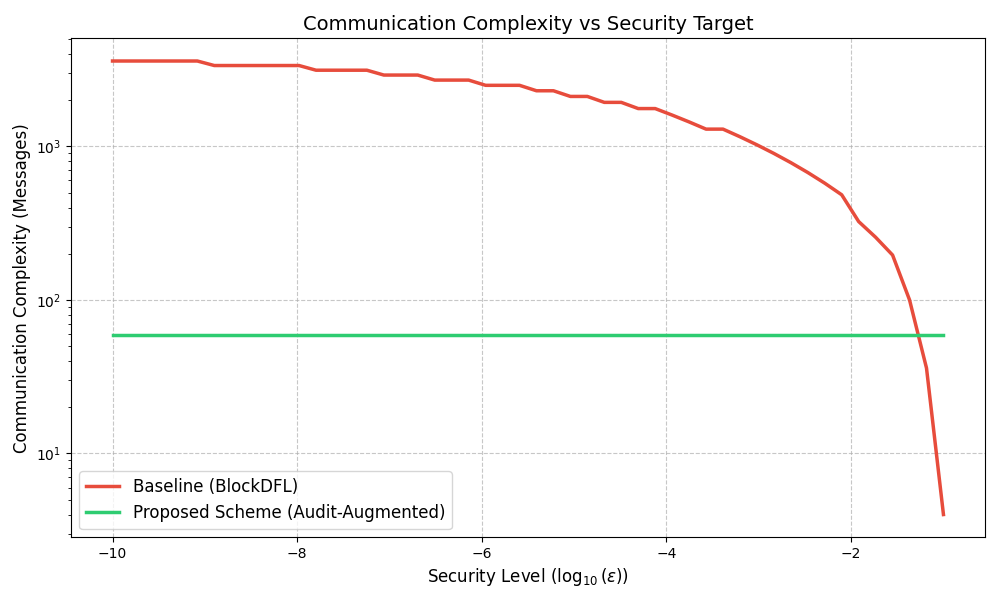
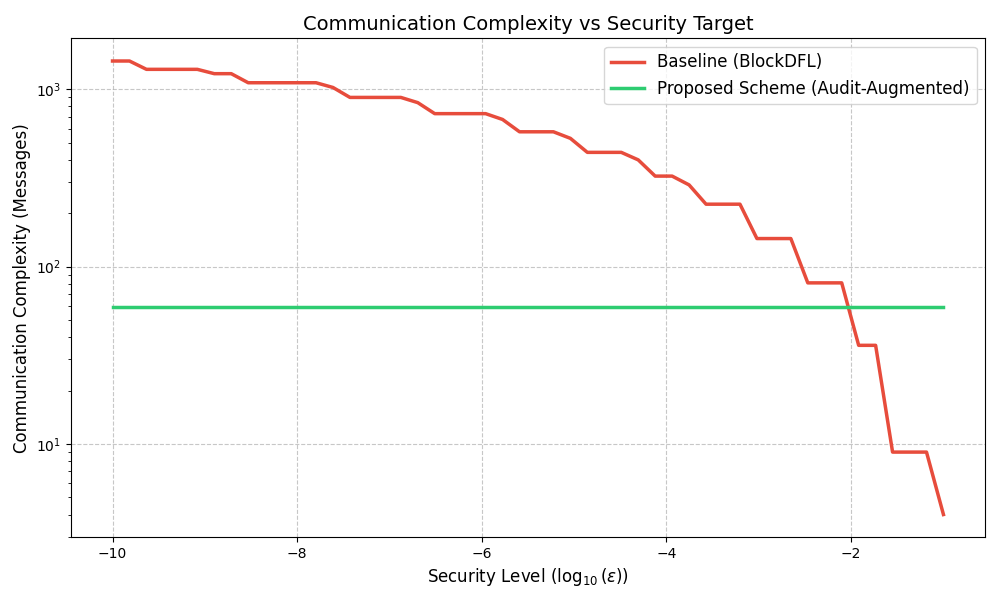
v2

diff --git a/analysis/table_gen.py b/analysis/table_gen.py
@@ -5,8 +5,8 @@ def calculate_min_committee(N, f, target_prob):
     M = int(N * f)  # Number of malicious nodes
     # Iterate C from 1 to N to find the minimum C that satisfies the safety condition
     for C in range(1, N + 1):
-        # The threshold for attack success is majority (> C/2)
-        threshold = math.floor(C / 2)
+        # The threshold for attack success is > 2/3 (BFT assumption)
+        threshold = math.floor(C * 2 / 3)
         
         # Calculate P(X > threshold) using Hypergeometric Survival Function (sf)
         # stats.hypergeom.sf(k, M, n, N) 

diff --git a/analysis/viz_gen.py b/analysis/viz_gen.py
@@ -6,7 +6,7 @@ import math
 def calculate_min_committee(N, f, target_prob):
     M = int(N * f)
     for C in range(1, N + 1):
-        threshold = math.floor(C / 2)
+        threshold = math.floor(C * 2 / 3)
         prob_failure = stats.hypergeom.sf(threshold, N, M, C)
         if prob_failure < target_prob:
             return C

diff --git a/section_6_4.md b/section_6_4.md
@@ -7,7 +7,7 @@
 假設系統中有 $N$ 個驗證節點，其中惡意節點佔比為 $f$。
 
 ### A. 基準方案 (Baseline: BlockDFL)
-傳統方案依賴委員會內部的 BFT 共識來確保安全性。為了防止惡意節點控制委員會（即佔據超過 $1/3$ 或 $1/2$ 席位），必須擴大委員會規模 $C_{base}$。其單輪通訊複雜度為委員會內部廣播的開銷：
+傳統方案依賴委員會內部的 BFT 共識來確保安全性。為了防止惡意節點控制委員會（即佔據超過 $2/3$ 席位以偽造共識），必須擴大委員會規模 $C_{base}$。其單輪通訊複雜度為委員會內部廣播的開銷：
 $$Cost_{base} = O(C_{base}^2)$$
 其中 $C_{base}$ 是關於安全閾值 $\epsilon$ 和惡意佔比 $f$ 的函數：$C_{base} = \text{func}(\epsilon, f)$。
 
@@ -19,9 +19,9 @@ $$\approx O(C_{small}^2) + p \cdot O(N^2)$$
 
 ## 6.4.2 安全性與委員會規模的定量關係 (Quantitative Analysis of Security vs. Committee Size)
 
-為了進行公平比較，我們必須計算基準方案在不同安全需求下所需的最小委員會規模。假設委員會選舉服從超幾何分佈 $H(N, M, C)$，其中 $M = \lfloor f \cdot N \rfloor$ 為惡意節點總數。系統失效（被攻陷）的定義為惡意節點在委員會中佔據多數（即 $k > C/2$）。失效機率 $P_{fail}$ 為：
+為了進行公平比較，我們必須計算基準方案在不同安全需求下所需的最小委員會規模。假設委員會選舉服從超幾何分佈 $H(N, M, C)$，其中 $M = \lfloor f \cdot N \rfloor$ 為惡意節點總數。系統失效（被攻陷）的定義為惡意節點在委員會中佔據 BFT 共識所需的絕對多數（即 $k > 2C/3$）。失效機率 $P_{fail}$ 為：
 
-$$P_{fail}(C) = \sum_{k=\lfloor C/2 \rfloor + 1}^{C} \frac{\binom{M}{k}\binom{N-M}{C-k}}{\binom{N}{C}}$$
+$$P_{fail}(C) = \sum_{k=\lfloor 2C/3 \rfloor + 1}^{C} \frac{\binom{M}{k}\binom{N-M}{C-k}}{\binom{N}{C}}$$
 
 我們設定 $N=100, f=0.3$，計算基準方案為了達到不同安全等級（即 $P_{fail} < \epsilon$）所需的最小 $C_{base}$。
 
@@ -30,17 +30,17 @@ Table 6.2: Communication Complexity Comparison under Iso-assurance Conditions
 
 | 安全目標 (Security Target, $\epsilon$) | 允許的失效機率 (Max Failure Prob.) | BlockDFL 所需委員會 ($C_{base}$) | 本方案委員會 ($C_{ours}$) | 效率提升倍率 (Speedup Factor) |
 | :--- | :--- | :--- | :--- | :--- |
-| **低安全性 (Low)** | $10^{-2}$ (1%) | 20 | 7 | **8.2x** |
-| **中安全性 (Medium)** | $10^{-4}$ (0.01%) | 40 | 7 | **32.7x** |
-| **高安全性 (High)** | $10^{-6}$ (0.0001%) | 52 | 7 | **55.2x** |
-| **金融級安全 (Critical)** | $10^{-9}$ (1ppb) | 58 | 7 | **68.7x** |
+| **低安全性 (Low)** | $10^{-2}$ (1%) | 6 | 7 | **0.7x** |
+| **中安全性 (Medium)** | $10^{-4}$ (0.01%) | 18 | 7 | **6.6x** |
+| **高安全性 (High)** | $10^{-6}$ (0.0001%) | 27 | 7 | **14.9x** |
+| **金融級安全 (Critical)** | $10^{-9}$ (1ppb) | 36 | 7 | **26.4x** |
 
-> *註：BlockDFL 的複雜度以 $C^2$ 計算；本方案以 $C^2$ 計算（假設 $p \to 0$）。數據基於 $N=100, f=0.3$ 的超幾何分佈計算得出。*
+> *註：BlockDFL 的複雜度以 $C^2$ 計算；本方案以 $C^2$ 計算（假設 $p \to 0$）。數據基於 $N=100, f=0.3$ 的超幾何分佈計算得出，失效閾值設為 $2C/3$。*
 
-如表 6.2 所示，傳統方案面臨嚴峻的安全性-效率權衡 (Security-Efficiency Trade-off)。若要將被攻陷的風險降至 $1\%$ 以下，BlockDFL 需要 $C=20$。若要求高安全性（失效機率百萬分之一），BlockDFL 必須動用超過半數節點 ($C=52$) 進行共識，其複雜度逼近 $O(N^2)$，這使得分片或委員會機制的優勢蕩然無存。相比之下，本方案通過引入經濟懲罰，使得 $C$ 固定為 7 即可滿足活性需求。在高安全性需求下，本方案展現出超過 50 倍的通訊效率提升。
+如表 6.2 所示，傳統方案在低安全需求下具有競爭力，但隨著安全要求的提高，其開銷增長顯著。若要求金融級安全（失效機率十億分之一），BlockDFL 需要 $C=36$。雖然基於 BFT 的 $2/3$ 閾值使得委員會不需要像 $1/2$ 閾值那樣龐大，但 $O(C^2)$ 的複雜度仍使得其開銷達到 $36^2 = 1296$ 次訊息。相比之下，本方案固定 $C=7$ ($Cost=49$)，在高安全性場景下展現出約 26 倍的通訊效率提升。
 
 ![通訊複雜度比較圖](analysis/complexity_comparison.png)
-*圖 6.4：不同安全需求下的通訊複雜度比較。本方案（綠線）在所有安全等級下均保持極低的通訊成本，而 BlockDFL（紅線）隨著安全要求的提高呈現近似指數級的成本增長。*
+*圖 6.4：不同安全需求下的通訊複雜度比較。綠線（Proposed）保持恆定低成本，而紅線（Baseline）隨著安全等級提升（$\epsilon$ 減小）而呈現二次方增長。注意 X 軸越向右代表安全要求越高（$\epsilon$ 越小）。*
 
 ## 6.4.3 挑戰機率 $p$ 的博弈論邊界 (Game-Theoretic Bound of $p$)
 
@@ -56,5 +56,5 @@ $$E[\text{Attack}] = P_{success} \cdot G_{gain} - P_{detect} \cdot L_{slash} > 0
 
 即使考慮非理性惡意行為或軟體故障導致的誤觸發，只要 $p$ 保持在較低水平（例如 $p < 0.01$），本系統的加權平均複雜度仍遠低於全網共識。
 $$E[Cost_{ours}] \approx O(7^2) + 0.01 \cdot O(100^2) = 49 + 100 = 149$$
-$$Cost_{base(High Security)} \approx O(52^2) = 2704$$
-即便在 1% 的極端挑戰率下，本方案仍保有約 18 倍 ($2704/149$) 的效率優勢。
+$$Cost_{base(Critical)} \approx O(36^2) = 1296$$
+即便在 1% 的極端挑戰率下，本方案仍保有約 8.7 倍 ($1296/149$) 的效率優勢。
